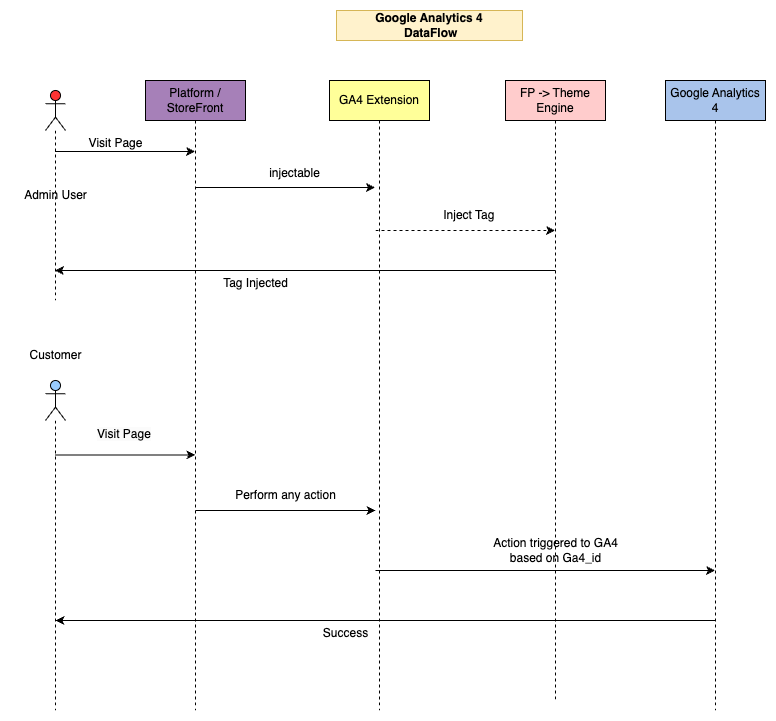
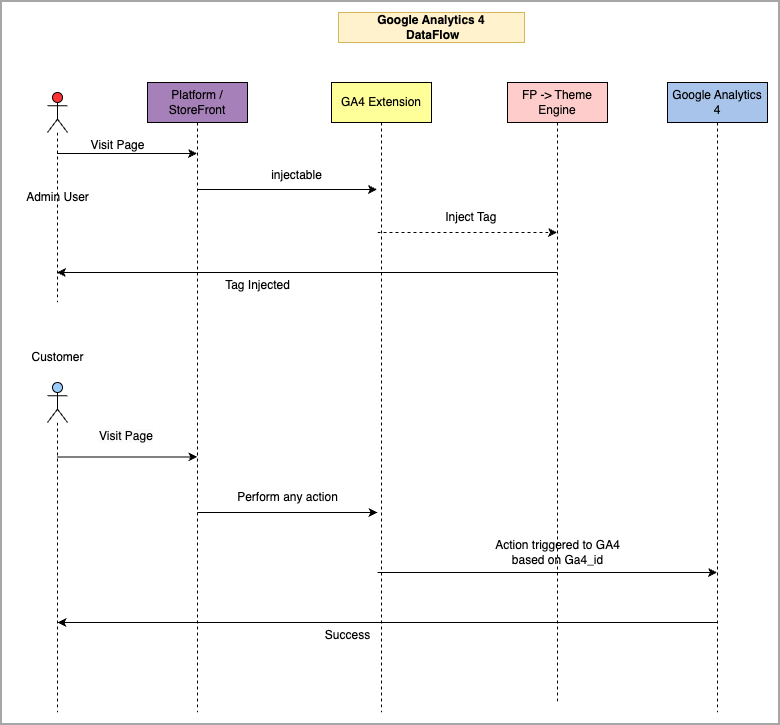
ID:FPEX-6629;DONE:100;HOURS:8;Updated Readme formatting and architecture diagram

diff --git a/README.md b/README.md
@@ -9,8 +9,9 @@ Get started with the Google Analytics Extension.
 
 ![Google Analytics Extension Architecture](./Google_Analytics.png)
 
-### Quick Links
+## Quick Links
 
+| [Fynd Platform](https://platform.fynd.com/) | [Fynd Partners](https://partners.fynd.com/) | [Documentation](https://documentation.fynd.com/) |
 
 ## Prerequisites
 
@@ -24,30 +25,32 @@ Before setting up the extension, make sure you have the following installed:
 
 ## Project Setup
 
-#### Partners Panel
+### Fynd Partners Panel
 
-1. Register on our partners panel [here](https://partners.fynd.com/).
+1. Register on our [Partners panel](https://partners.fynd.com/).
 2. After registration, you can be added to an existing Partner Organization or you can create a new organization.
 3. Once you are associated with an organization, navigate to `Extension > Create Extension > Start from scratch`, fill in the required details, and then click on the `Create Extension` button.
 4. After successfully creating the extension, it will appear in the list of organization extensions. 
 5. Open your extension to proceed.
 6. In the Extension overview, within the 'Client Credentials' section, you will find your `API Key` and `API Secret` for further development.
 
-#### Local Setup
+### Local Setup
 
 1. **Start MongoDB.**
 
    Ensure MongoDB (v4.4.x or above) is installed on your machine. Start the MongoDB service.
+
 2. **Start Redis Server.**
 
    Ensure Redis is installed on your machine. Start the Redis server.
+
 3. Use Git to clone the repository to your local machine and navigate into the project directory.
 
     ```bash
     git clone https://github.com/fynd-platform/GA4-Extension
     ```
 
-4. **Install Backend Dependencies**
+4. **Install Backend Dependencies.**
 
    Ensure you have Node.js (v16.x.x or above) installed.
 
@@ -55,20 +58,21 @@ Before setting up the extension, make sure you have the following installed:
     npm install
     ```
 
-5. **Install Frontend Dependencies**
+5. **Install Frontend Dependencies.**
 
     ```bash
     cd web
     npm install
     ```
 
-6. **Create build of frontend Vue project**
+6. **Create build of frontend Vue project.**
 
     ```bash
     npm run build
     ```
 
-7. **Configure Environment Variables**
+7. **Configure Environment Variables.**
+
    Open the `app/fdk/config.js` file in your project directory. Update the `EXTENSION_API_KEY` and `EXTENSION_API_SECRET` environment variables in `extension.api_key` and `extension.api_secret` with the values obtained from the Partners Panel. These should be set as the default values for the `config` variables.
 
     ```javascript
@@ -88,9 +92,10 @@ Before setting up the extension, make sure you have the following installed:
 
 8. Also update MongoDB and Redis Environment Variables according to your machine.
 
-9. **Secure Tunnel Setup**
+9. **Secure Tunnel Setup.**
 
    Install ngrok or a similar cross-platform application to create secure tunnels, enabling your locally hosted web server to be accessible over the internet.
+
 10. Launch ngrok to forward the port used by your local server.
 
     ```bash
@@ -127,7 +132,7 @@ Before setting up the extension, make sure you have the following installed:
 
 After you have completed the local setup, you can run the test cases to ensure everything is working as expected. Follow these steps to execute the tests:
 
-1. **Navigate to the Project Directory**
+1. **Navigate to the Project Directory.**
 
    If you're not already there, switch to your project's root directory in your terminal.
 
@@ -135,7 +140,7 @@ After you have completed the local setup, you can run the test cases to ensure e
     cd path/to/your/project
     ```
 
-2. **Run Backend Tests**
+2. **Run Backend Tests.**
 
    Execute the backend test cases using the following command:
 
@@ -143,14 +148,16 @@ After you have completed the local setup, you can run the test cases to ensure e
     npm test
     ```
 
-3. **Navigate to the Frontend Directory**
+3. **Navigate to the Frontend Directory.**
+
    From the root of your project, move into the web directory.
 
     ```bash
     cd web
     ```
 
-4. **Run Frontend Tests**
+4. **Run Frontend Tests.**
+
    Execute the Frontend test cases using the following command:
 
     ```bash
@@ -221,24 +228,25 @@ To enable Sentry for error monitoring, update the environment variables in the `
 
 Configuring these variables enables Sentry's error tracking for your application, offering a layer of insight into its stability and helping you maintain a high-quality user experience.
 
-### Platform Panel
+### Fynd Platform Panel
 
-1. Register on our partners portal [here](https://platform.fynd.com/).
-2. After registration, either join an existing Partner Organization or create a new one.
+1. Register on our [Platform panel](https://platform.fynd.com/).
+2. After registration, either join an existing Platform Organization or create a new one.
 3. Upon registration completion, find your organization's ID in the URL, such as `https://platform.uat.fyndx1.de/company/:company-id/home/`.
 4. For a private extension, navigate to Extension > Private Extension. Private extensions are recommended for development purposes.
 5. For a public extension, navigate to Extension > Extension Marketplace.
 6. Locate your extension in the list and click the `Install` button.
 7. For private extensions, add the company ID as a subscriber for the extension in the Partner's Panel. Navigate to your extension in the Partner's Panel, click on the `Add Subscribers` button, enter your `company-id` in the`Subscriber Id` field, and click `Add Subscriber`.
-8. After installation, your extension will be listed under your organization's extensions. Click on your extension to open it.
-9. Your changes from local development will be reflected here.
-
-
+8. After installation, your extension will be listed under your organization's extensions.
+9. Click on your extension to open it.
+10. Your changes from local development will be reflected here.
 
 ---
+
 ## Deployment using Docker
 
 This section provides generic steps to deploy your Dockerized application.
+
 ### Prerequisites
 
 - Docker installed on your local machine
@@ -320,11 +328,10 @@ Below is an example of the commands you might use for a generic deployment proce
     docker run -d -p 80:3000 myusername/myapp:latest
     ```
 
-### Notes
+> **Notes**
+Ensure Docker is installed and configured on your deployment server, and replace `your-username`, `your-app-name`, `your-tag`, `host-port`, and `container-port` with your actual values to successfully pull images from your selected container registry.
 
-- Replace `your-username`, `your-app-name`, `your-tag`, `host-port`, and `container-port` with your actual values.
-- Make sure Docker is installed and configured on your deployment server to pull images from your selected container registry.
-
+*Security Tip:* Always verify the security of your Docker images to prevent unauthorized access.
 
 ---
 
@@ -338,8 +345,6 @@ Our application offers several endpoints designed to monitor its health and read
 - `/_readyz`: This endpoint confirms if the application is prepared to handle requests by checking if all initializations have successfully completed.
 
 These endpoints provide a JSON response with an "ok" status, indicating the health status. A response of { "ok": true } signifies the application is healthy and ready, while { "ok": false } indicates an issue. This functionality ensures Kubernetes actively monitors the application's health and readiness, enhancing reliability and uptime.
-
-
 
 ---
 
